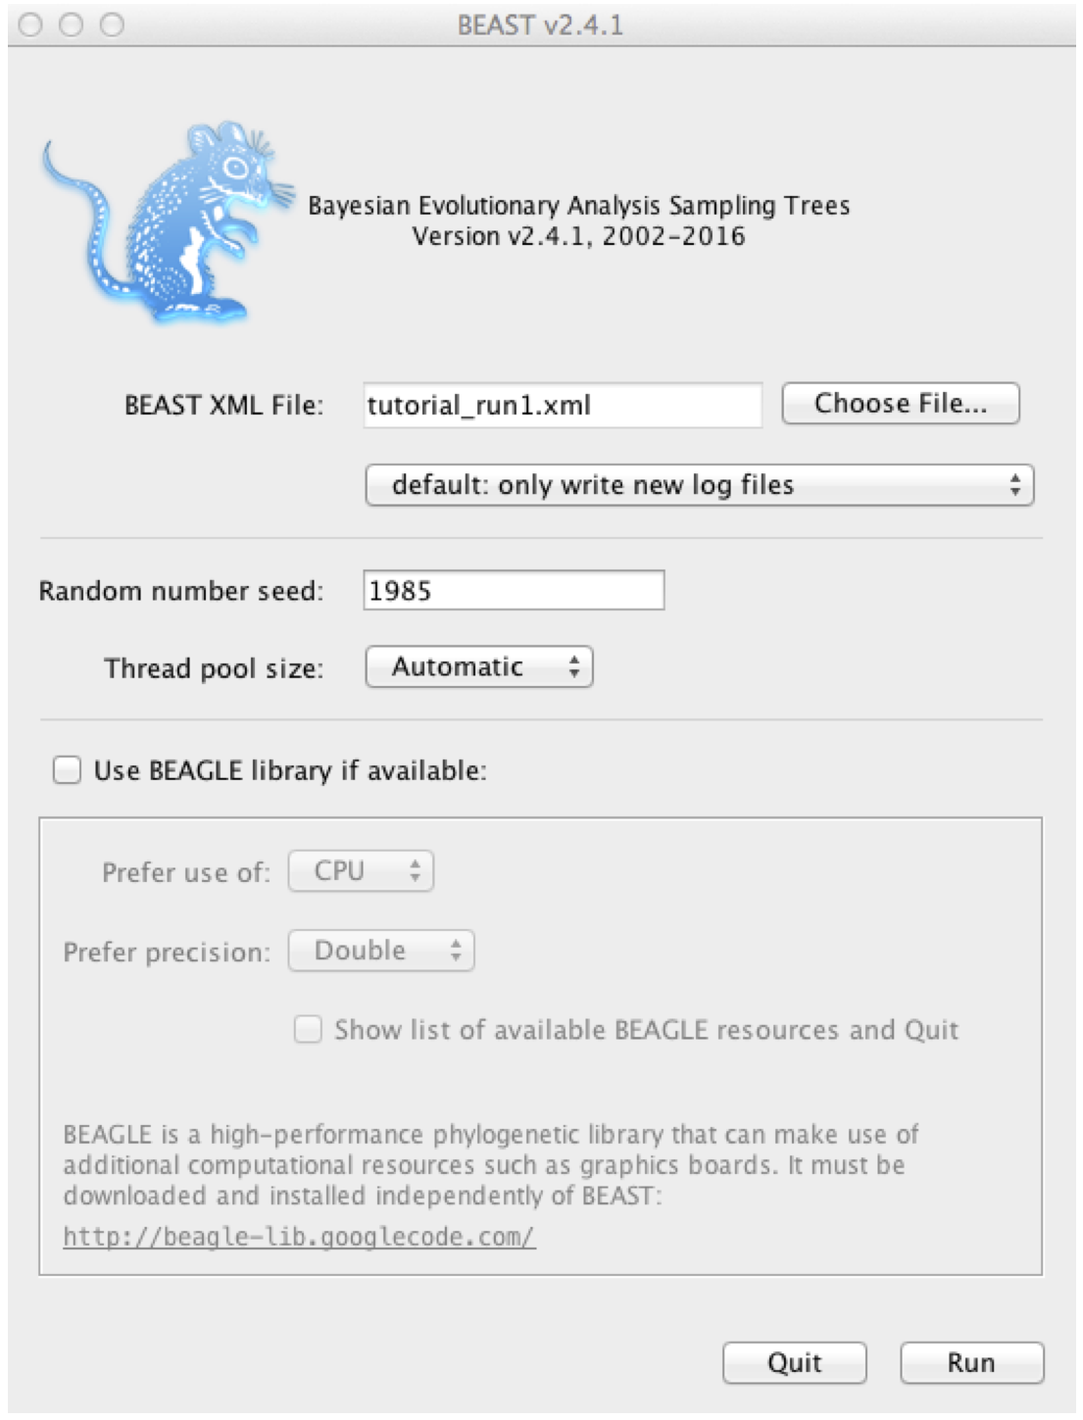
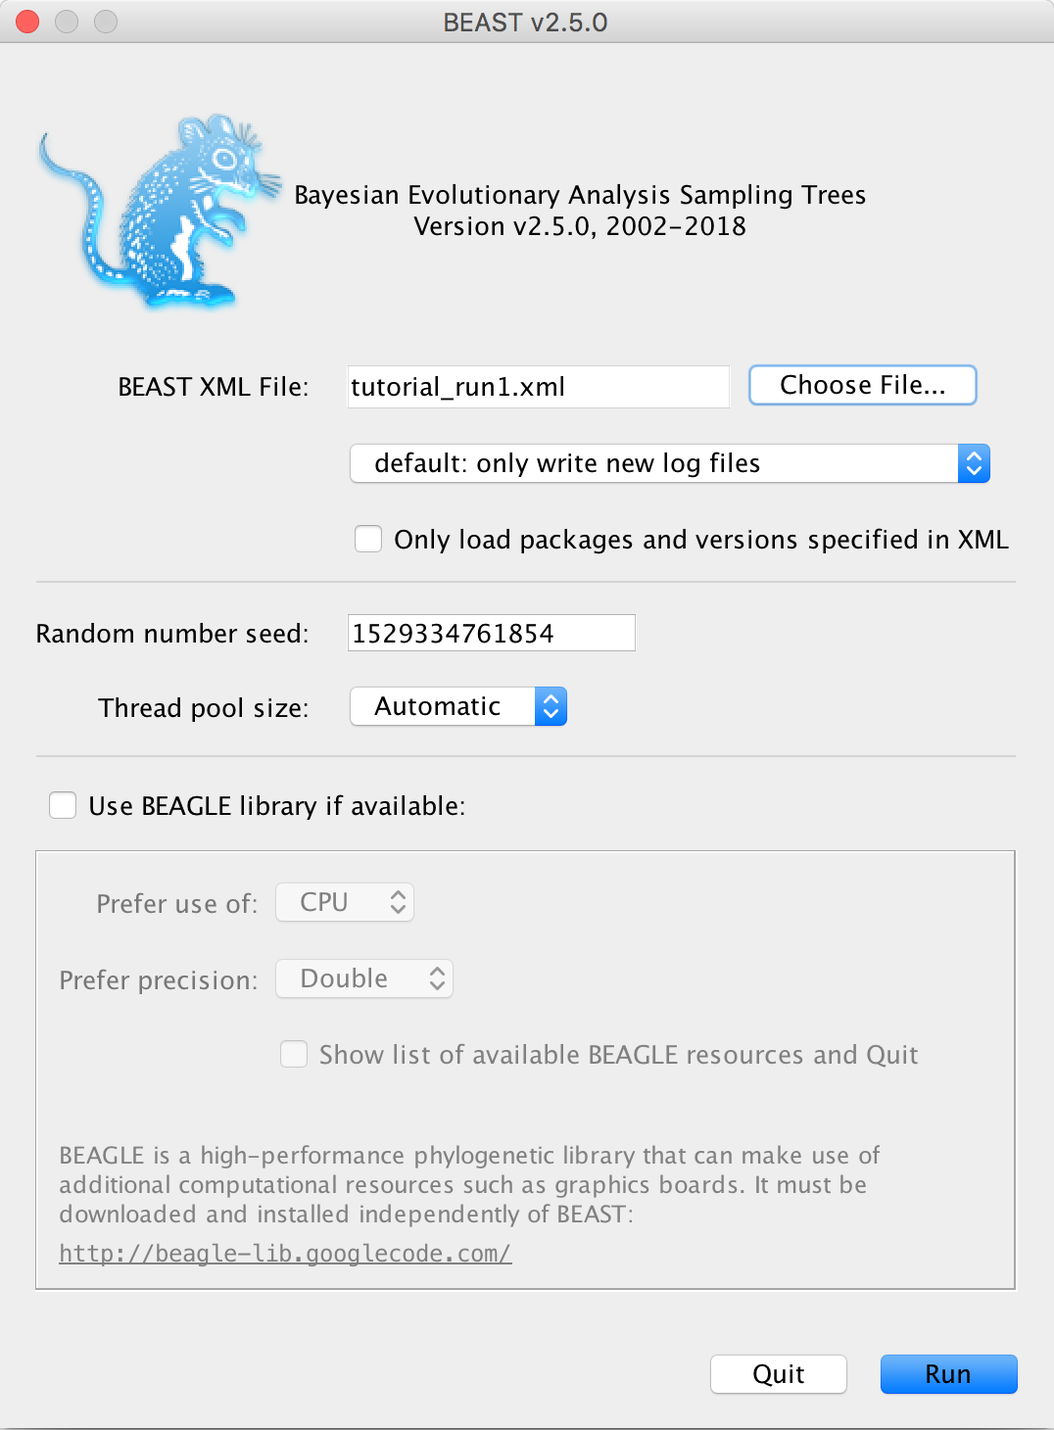
Minor fixes for the tutorial

diff --git a/main.tex b/main.tex
@@ -25,7 +25,7 @@
 \begin{center}
 
 	% Enter the name of your tutorial here
-	\textbf{\LARGE Tutorial using BEAST v2.4.1}\\\vspace{2mm}
+	\textbf{\LARGE Tutorial using BEAST v2.4.1+}\\\vspace{2mm}
 
 	% Enter a short description of your tutorial here
 	\textbf{\textcolor{mycol}{\Large Troubleshooting}}\\
@@ -52,7 +52,7 @@ Tracer. This program allows us to easily visualize BEAST's output and
 summarize results. As we will see, we can also use Tracer to
 troubleshoot some of the most common MCMC problems encountered in BEAST.
 
-While BEAST's MCMC algorithm is fairly well optimized for phylogenetic
+While BEAST's MCMC algorithm is fairly well optimised for phylogenetic
 inference, problems can arise, especially as the complexity of our data
 and models increase. A MCMC run may not converge on a stationary target
 distribution. More commonly, a run might converge but mix poorly -
@@ -153,15 +153,13 @@ file. Then click \textbf{Run}.
 \begin{figure}
     \centering
     \includegraphics[width=0.500000\textwidth]{figures/beast_input_run1.png}
-    \caption{Running BEAST with a user-specified random number seed.}
+    \caption{Running BEAST with the specified XML configuration file.}
     \label{fig:beast_run1}
 \end{figure}
 
-If you set the random number seed to 1985, you should be able to
-reproduce my results exactly (Figure \ref{fig:beast_run1}). Feel free to
-use another seed if you would like to experiment. Since we are only
-running 200,000 iterations, the MCMC should finish running in under 30
-seconds.
+Since we are only running 200,000 iterations, the MCMC should finish running
+in under 30 seconds.
+
 
 \subsubsection{Visualizing BEAST's output in
 Tracer}\label{visualizing-beasts-output-in-tracer}
@@ -170,6 +168,9 @@ Tracer}\label{visualizing-beasts-output-in-tracer}
 Open Tracer and navigate to \textbf{File \textgreater{} Import Trace
 File}, then open \lstinline!tutorial_run1.log!
 \end{framed}
+
+The results of your run will look similar, but not necessarily identical,
+to my results shown in Figure \ref{fig:beast_run1}.
 
 Tracer allows us to quickly visualize BEAST's MCMC output in order to
 check performance and see our parameter estimates. On the left there is
@@ -182,7 +183,7 @@ posterior distribution.
 
 By selecting a parameter in the left panel and then clicking on the
 \textbf{Trace} tab, we can see how the MCMC explored parameter space
-(Figure \ref{fig:tracer_run1}). For the clockRate parameter for
+(Figure \ref{fig:tracer_run1}). For the \textbf{clockRate} parameter for
 instance, we see that the chain quickly converged to a value of about
 0.01 (the true value used to simulate the sequence data), but mixing was
 poor, hence the low ESS.
@@ -190,7 +191,7 @@ poor, hence the low ESS.
 \begin{figure}
     \centering
     \includegraphics[width=0.800000\textwidth]{figures/tracer_run1.png}
-    \caption{A trace plot for the clockRate parameter}
+    \caption{A trace plot for the \textbf{clockRate} parameter}
     \label{fig:tracer_run1}
 \end{figure}
 
@@ -198,7 +199,7 @@ We can also see our posterior estimates for each parameter by clicking
 on the \textbf{Estimates} tab while highlighting the desired parameter
 in the left panel. This provides us with various summary statistics and
 a frequency histogram representing our estimate of the posterior
-distribution constructed from our MCMC samples. For the clockRate
+distribution constructed from our MCMC samples. For the \textbf{clockRate}
 parameter, we can see that our estimate of the posterior is extremely
 rough, again because we have so few uncorrelated samples from the
 posterior (Figure \ref{fig:tracer_run1_ests}).
@@ -206,7 +207,7 @@ posterior (Figure \ref{fig:tracer_run1_ests}).
 \begin{figure}
     \centering
     \includegraphics[width=0.800000\textwidth]{figures/tracer_run1_ests.png}
-    \caption{Posterior estimates of the clockRate in Tracer.}
+    \caption{Posterior estimates of the \textbf{clockRate} in Tracer.}
     \label{fig:tracer_run1_ests}
 \end{figure}
 
@@ -220,8 +221,9 @@ the simplest thing to try is to rerun the MCMC for more iterations.
 \begin{framed}
 Load the \lstinline!tutorial_run1.xml! back into BEAUti using
 \textbf{File \textgreater{} Load}. Navigate to the MCMC panel and
-increase the chain length to 1 million . You may also want to change the
-file name for the log file to \lstinline!tutorial_run2.log! so we do not
+increase the chain length to 1 million. You may also want to change the
+file name for the log file to \lstinline!tutorial_run2.log! and to 
+\lstinline!tutorial_run2.trees! for the tree file so we do not
 overwrite our previous results. When done, navigate \textbf{File
 \textgreater{} Save As} and save as \lstinline!tutorial_run2.xml!.
 \end{framed}
@@ -241,17 +243,17 @@ When done, open the \lstinline!tutorial_run2.log! in Tracer.
 Looking at the MCMC output in Tracer, we see that that increasing the
 chain length did help some (Figure \ref{fig:tracer_run2}). The ESS
 values are higher and the traces look better, but still not great. In
-the next section, we will continue to focus on the clockRate parameter
+the next section, we will continue to focus on the \textbf{clockRate} parameter
 because it still has a low ESS and appears to mix especially poorly.
 
 \begin{figure}
     \centering
     \includegraphics[width=0.800000\textwidth]{figures/tracer_run2.png}
-    \caption{A trace plot for the clockRate parameter}
+    \caption{A trace plot for the \textbf{clockRate} parameter}
     \label{fig:tracer_run2}
 \end{figure}
 
-\subsubsection{Run 3: Changing the clockRate
+\subsubsection{Run 3: Changing the \textbf{clockRate}
 operators}\label{run-3-changing-the-clockrate-operators}
 
 If one parameter in particular is not converging or mixing well, we can
@@ -267,10 +269,11 @@ Load the \lstinline!tutorial_run2.xml! back into BEAUti and select
 \lstinline!View > Show Operators! panel. This will bring up a new panel
 showing all the operators in use (Figure \ref{fig:beauti_run3}). Click
 on the black triangle next to \lstinline!Scale:clockRate!. In the menu
-that drops down, check \textbf{Optimize}. In the box to the right of
+that drops down, check \textbf{Optimise}. In the box to the right of
 \lstinline!Scale.clockRate!, change the value from \textbf{0.1} to
 \textbf{3.0}. Now navigate to the MCMC panel and change the file name
-for the log file to \lstinline!tutorial_run3.log!. When done, save as
+for the log file to \lstinline!tutorial_run3.log! and the tree file to
+\lstinline!tutorial_run3.trees!. When done, save as
 \lstinline!tutorial_run3.xml!.
 \end{framed}
 
@@ -281,9 +284,9 @@ for the log file to \lstinline!tutorial_run3.log!. When done, save as
     \label{fig:beauti_run3}
 \end{figure}
 
-So, what just happened? We told BEAST to try to automatically optimize
-the scale operator on the clockRate, which moves the parameter value up
-or down. Note that by default, operators are automatically optimized in
+So, what just happened? We told BEAST to try to automatically optimise
+the scale operator on the \mbox{\textbf{clockRate}}, which moves the parameter value up
+or down. Note that by default, operators are automatically optimised in
 BEAST, but for the purposes of this tutorial I turned off
 auto-optimization to get especially bad mixing. We also increased the
 weight on this scale operator so that new \textbf{clockRates} will be
@@ -302,13 +305,13 @@ Run the \lstinline!tutorial_run3.xml! in BEAST and then open the
 \end{framed}
 
 We can see that optimizing the operator dramatically improves mixing for
-the clockRate (Figure \ref{fig:tracer_run3}). But there is still room
+the \textbf{clockRate} (Figure \ref{fig:tracer_run3}). But there is still room
 for improvement.
 
 \begin{figure}
     \centering
     \includegraphics[width=0.800000\textwidth]{figures/tracer_run3.png}
-    \caption{A trace plot for the clockRate parameter}
+    \caption{A trace plot for the \textbf{clockRate} parameter}
     \label{fig:tracer_run3}
 \end{figure}
 
@@ -329,7 +332,7 @@ more efficiently explore their parameter space.
 \begin{figure}
     \centering
     \includegraphics[width=0.800000\textwidth]{figures/tracer_run3Joint.png}
-    \caption{The joint posterior distribution of TreeHeight and clockRate}
+    \caption{The joint posterior distribution of \textbf{TreeHeight} and \textbf{clockRate}}
     \label{fig:tracer_run3Joint}
 \end{figure}
 
@@ -346,10 +349,11 @@ operator to scale both parameters in the same direction, up or down.
 Load the \lstinline!tutorial_run3.xml! back into BEAUti and select
 \lstinline!View > Show Operators! panel. Click on the black triangle
 next to \textbf{UpDown clockRate}. In the menu that drops down, check
-\textbf{Optimize}. In the box to the right, change the weight on the
+\textbf{Optimise}. In the box to the right, change the weight on the
 UpDown operator from \textbf{0.0} to \textbf{3.0}. In the MCMC panel,
-change the file name for the log file to \lstinline!tutorial_run4.log!.
-When done, save as tutorial\_run4.xml`.
+change the file name for the log file to \lstinline!tutorial_run4.log!
+and the tree file to \lstinline!tutorial_run4.trees!.
+When done, save as \lstinline!tutorial_run4.xml!.
 \end{framed}
 
 We just added an \textbf{UpDown} operator on the \textbf{clockRate} and
@@ -383,7 +387,7 @@ converging on similar parameters.
 \begin{figure}
     \centering
     \includegraphics[width=0.800000\textwidth]{figures/tracer_run4.png}
-    \caption{A trace plot for the clockRate parameter}
+    \caption{A trace plot for the \textbf{clockRate} parameter}
     \label{fig:tracer_run4}
 \end{figure}
 

diff --git a/README.md b/README.md
@@ -1,6 +1,6 @@
 ---
 author: David A. Rasmussen
-beastversion: 2.4.1
+beastversion: 2.4.1+
 tracerversion: 1.6.0
 level: Beginner
 title: Troubleshooting
@@ -11,7 +11,7 @@ title: Troubleshooting
 
 The primary goal of most phylogenetic analyses in BEAST is to infer the posterior distribution of trees and associated model parameters using Markov chain Monte Carlo (MCMC) sampling. In this tutorial, we will learn how to analyze the output of a MCMC analysis in BEAST using Tracer. This program allows us to easily visualize BEAST's output and summarize results. As we will see, we can also use Tracer to troubleshoot some of the most common MCMC problems  encountered in BEAST.
 
-While BEAST's MCMC algorithm is fairly well optimized for phylogenetic inference, problems can arise, especially as the complexity of our data and models increase. A MCMC run may not converge on a stationary target distribution. More commonly, a run might converge but mix poorly - meaning our samples from the posterior are highly autocorrelated and therefore not independent. In these cases, it is often necessary to tune the performance of the MCMC algorithm.
+While BEAST's MCMC algorithm is fairly well optimised for phylogenetic inference, problems can arise, especially as the complexity of our data and models increase. A MCMC run may not converge on a stationary target distribution. More commonly, a run might converge but mix poorly - meaning our samples from the posterior are highly autocorrelated and therefore not independent. In these cases, it is often necessary to tune the performance of the MCMC algorithm.
 
 In this tutorial, we will consider a relatively simple example where we would like to infer a phylogeny and evolutionary parameters from a small alignment of sequences.  Our job will be to work together to increase the efficiency of the MCMC so we can make BEAST purr...
 
@@ -84,12 +84,11 @@ We are now ready to run our first analysis in BEAST.
 <figure>
 	<a id="fig:beast_run1"></a>
 	<img style="width:50.0%;" src="figures/beast_input_run1.png" alt="">
-	<figcaption>Figure 2: Running BEAST with a user-specified random number seed.</figcaption>
+	<figcaption>Figure 2: Running BEAST with the specified XML configuration file.</figcaption>
 </figure>
 <br>
 
-
-If you set the random number seed to 1985, you should be able to reproduce my results exactly ([Figure 2](#fig:beast_run1)). Feel free to use another seed if you would like to experiment. Since we are only running 200,000 iterations, the MCMC should finish running in under 30 seconds.
+Since we are only running 200,000 iterations, the MCMC should finish running in under 30 seconds.
 
 
 ### Visualizing BEAST's output in Tracer
@@ -98,24 +97,26 @@ If you set the random number seed to 1985, you should be able to reproduce my re
 > Open Tracer and navigate to **File > Import Trace File**, then open `tutorial_run1.log`
 > 
 
+The results of your run will look similar, but not necessarily identical, to my results shown in [Figure 2](#fig:beast_run1).
+
 Tracer allows us to quickly visualize BEAST's MCMC output in order to check performance and see our parameter estimates. On the left there is a panel where all model parameters are listed along with their mean posterior estimates and Effective Sample Size (ESS). Recall that the ESS tells us how many pseudo-independent samples we have from the posterior, so the higher the better. Here, we can see that the ESS is low for all parameters, indicating that we do not yet have a good estimate of the posterior distribution.
 
-By selecting a parameter in the left panel and then clicking on the **Trace** tab, we can see how the MCMC explored parameter space ([Figure 3](#fig:tracer_run1)). For the clockRate parameter for instance, we see that the chain quickly converged to a value of about 0.01 (the true value used to simulate the sequence data), but mixing was poor, hence the low ESS. 
+By selecting a parameter in the left panel and then clicking on the **Trace** tab, we can see how the MCMC explored parameter space ([Figure 3](#fig:tracer_run1)). For the **clockRate** parameter for instance, we see that the chain quickly converged to a value of about 0.01 (the true value used to simulate the sequence data), but mixing was poor, hence the low ESS. 
 
 <figure>
 	<a id="fig:tracer_run1"></a>
 	<img style="width:80.0%;" src="figures/tracer_run1.png" alt="">
-	<figcaption>Figure 3: A trace plot for the clockRate parameter</figcaption>
+	<figcaption>Figure 3: A trace plot for the **clockRate** parameter</figcaption>
 </figure>
 <br>
 
 
-We can also see our posterior estimates for each parameter by clicking on the **Estimates** tab while highlighting the desired parameter in the left panel. This provides us with various summary statistics and a frequency histogram representing our estimate of the posterior distribution constructed from our MCMC samples. For the clockRate parameter, we can see that our estimate of the posterior is extremely rough, again because we have so few uncorrelated samples from the posterior ([Figure 4](#fig:tracer_run1_ests)).
+We can also see our posterior estimates for each parameter by clicking on the **Estimates** tab while highlighting the desired parameter in the left panel. This provides us with various summary statistics and a frequency histogram representing our estimate of the posterior distribution constructed from our MCMC samples. For the **clockRate** parameter, we can see that our estimate of the posterior is extremely rough, again because we have so few uncorrelated samples from the posterior ([Figure 4](#fig:tracer_run1_ests)).
 
 <figure>
 	<a id="fig:tracer_run1_ests"></a>
 	<img style="width:80.0%;" src="figures/tracer_run1_ests.png" alt="">
-	<figcaption>Figure 4: Posterior estimates of the clockRate in Tracer.</figcaption>
+	<figcaption>Figure 4: Posterior estimates of the **clockRate** in Tracer.</figcaption>
 </figure>
 <br>
 
@@ -126,7 +127,7 @@ We can also see our posterior estimates for each parameter by clicking on the **
 By checking the ESS, trace plots and parameter estimates, we got the picture that none of our parameters in Run 1 mixed well. In this case, the simplest thing to try is to rerun the MCMC for more iterations.
 
 
-> Load the `tutorial_run1.xml` back into BEAUti using **File > Load**. Navigate to the MCMC panel and increase the chain length to 1 million . You may also want to change the file name for the log file to `tutorial_run2.log` so we do not overwrite our previous results. When done, navigate **File > Save As** and save as `tutorial_run2.xml`.
+> Load the `tutorial_run1.xml` back into BEAUti using **File > Load**. Navigate to the MCMC panel and increase the chain length to 1 million. You may also want to change the file name for the log file to `tutorial_run2.log` and to `tutorial_run2.trees` for the tree file so we do not overwrite our previous results. When done, navigate **File > Save As** and save as `tutorial_run2.xml`.
 > 
 
 
@@ -141,23 +142,23 @@ By checking the ESS, trace plots and parameter estimates, we got the picture tha
 <br>
 
 
-Looking at the MCMC output in Tracer, we see that that increasing the chain length did help some ([Figure 6](#fig:tracer_run2)). The ESS values are higher and the traces look better, but still not great. In the next section, we will continue to focus on the clockRate parameter because it still has a low ESS and appears to mix especially poorly. 
+Looking at the MCMC output in Tracer, we see that that increasing the chain length did help some ([Figure 6](#fig:tracer_run2)). The ESS values are higher and the traces look better, but still not great. In the next section, we will continue to focus on the **clockRate** parameter because it still has a low ESS and appears to mix especially poorly. 
 
 <figure>
 	<a id="fig:tracer_run2"></a>
 	<img style="width:80.0%;" src="figures/tracer_run2.png" alt="">
-	<figcaption>Figure 6: A trace plot for the clockRate parameter</figcaption>
+	<figcaption>Figure 6: A trace plot for the **clockRate** parameter</figcaption>
 </figure>
 <br>
 
 
 
-### Run 3: Changing the clockRate operators
+### Run 3: Changing the **clockRate** operators
 
 If one parameter in particular is not converging or mixing well, we can try to tweak that parameter's operator(s). Remember that BEAST's operators control what new parameter values are proposed at each MCMC iteration and how these proposals are made (i.e. the proposal distribution). Since the **clockRate** parameter was not mixing well in Run 2, we will try increasing the frequency at which new **clockRates** are proposed.
 
 
-> Load the `tutorial_run2.xml` back into BEAUti and select `View > Show Operators` panel. This will bring up a new panel showing all the operators in use ([Figure 7](#fig:beauti_run3)). Click on the black triangle next to `Scale:clockRate`. In the menu that drops down, check **Optimize**. In the box to the right of `Scale.clockRate`, change the value from **0.1** to **3.0**. Now navigate to the MCMC panel and change the file name for the log file to `tutorial_run3.log`. When done, save as `tutorial_run3.xml`.
+> Load the `tutorial_run2.xml` back into BEAUti and select `View > Show Operators` panel. This will bring up a new panel showing all the operators in use ([Figure 7](#fig:beauti_run3)). Click on the black triangle next to `Scale:clockRate`. In the menu that drops down, check **Optimise**. In the box to the right of `Scale.clockRate`, change the value from **0.1** to **3.0**. Now navigate to the MCMC panel and change the file name for the log file to `tutorial_run3.log` and the tree file to `tutorial_run3.trees`. When done, save as `tutorial_run3.xml`.
 > 
 
 <figure>
@@ -168,19 +169,19 @@ If one parameter in particular is not converging or mixing well, we can try to t
 <br>
  
 
-So, what just happened? We told BEAST to try to automatically optimize the scale operator on the clockRate, which moves the parameter value up or down. Note that by default, operators are automatically optimized in BEAST, but for the purposes of this tutorial I turned off auto-optimization to get especially bad mixing. We also increased the weight on this scale operator so that new **clockRates** will be proposed more often in the MCMC. Going from a weight of 0.1 to 3.0 means that new proposals for that parameter will be made thirty times as often, but the frequency at which a given operator is called depends on the weights given to other operators. So if there are parameters with very high ESS values, we may want to reallocate weight on their operators to operators on less well mixing parameters. For fun, you may want to guess what each operator in the **Operators** panel is doing.
+So, what just happened? We told BEAST to try to automatically optimise the scale operator on the **clockRate**, which moves the parameter value up or down. Note that by default, operators are automatically optimised in BEAST, but for the purposes of this tutorial I turned off auto-optimization to get especially bad mixing. We also increased the weight on this scale operator so that new **clockRates** will be proposed more often in the MCMC. Going from a weight of 0.1 to 3.0 means that new proposals for that parameter will be made thirty times as often, but the frequency at which a given operator is called depends on the weights given to other operators. So if there are parameters with very high ESS values, we may want to reallocate weight on their operators to operators on less well mixing parameters. For fun, you may want to guess what each operator in the **Operators** panel is doing.
 
 
 
 > Run the `tutorial_run3.xml` in BEAST and then open the `tutorial_run3.log` in Tracer.
 > 
 
-We can see that optimizing the operator dramatically improves mixing for the clockRate ([Figure 8](#fig:tracer_run3)). But there is still room for improvement.
+We can see that optimizing the operator dramatically improves mixing for the **clockRate** ([Figure 8](#fig:tracer_run3)). But there is still room for improvement.
 
 <figure>
 	<a id="fig:tracer_run3"></a>
 	<img style="width:80.0%;" src="figures/tracer_run3.png" alt="">
-	<figcaption>Figure 8: A trace plot for the clockRate parameter</figcaption>
+	<figcaption>Figure 8: A trace plot for the **clockRate** parameter</figcaption>
 </figure>
 <br>
  
@@ -190,7 +191,7 @@ One thing to keep in mind is that BEAST is using MCMC to explore a multidimensio
 <figure>
 	<a id="fig:tracer_run3Joint"></a>
 	<img style="width:80.0%;" src="figures/tracer_run3Joint.png" alt="">
-	<figcaption>Figure 9: The joint posterior distribution of TreeHeight and clockRate</figcaption>
+	<figcaption>Figure 9: The joint posterior distribution of **TreeHeight** and **clockRate**</figcaption>
 </figure>
 <br>
 
@@ -201,7 +202,7 @@ One thing to keep in mind is that BEAST is using MCMC to explore a multidimensio
 The easiest way to improve MCMC performance when two parameters are highly negatively correlated is to add an **UpDown** operator. This operator scales one parameter up while scaling the other parameter down. If two parameters are highly positively correlated we can also use this operator to scale both parameters in the same direction, up or down. 
 
 
-> Load the `tutorial_run3.xml` back into BEAUti and select `View > Show Operators` panel. Click on the black triangle next to **UpDown clockRate**. In the menu that drops down, check **Optimize**. In the box to the right, change the weight on the UpDown operator from **0.0** to **3.0**. In the MCMC panel, change the file name for the log file to `tutorial_run4.log`. When done, save as tutorial_run4.xml`.
+> Load the `tutorial_run3.xml` back into BEAUti and select `View > Show Operators` panel. Click on the black triangle next to **UpDown clockRate**. In the menu that drops down, check **Optimise**. In the box to the right, change the weight on the UpDown operator from **0.0** to **3.0**. In the MCMC panel, change the file name for the log file to `tutorial_run4.log` and the tree file to `tutorial_run4.trees`. When done, save as tutorial_run4.xml`.
 > 
 
 We just added an **UpDown** operator on the **clockRate** and the **TreeHeight**. The fact that these two parameters are highly negatively correlated makes perfect sense. An increase in the **clockRate** means that less time is needed for substitutions to accumulate along branches; meaning branches can be shorter and yet still explain the same amount of accumulated evolutionary change in the sequence data. If all branches in the tree become shorter, then the total **TreeHeight** will also decrease. Thus it makes sense to include an **UpDown** operator on **clockRate** and **TreeHeight**. In fact, by default BEAUTi includes this operator. However, I disabled it in the original XML file by setting the weight on this operator to zero for the purpose of illustration.
@@ -215,7 +216,7 @@ Looking at the MCMC output in Tracer, we see that all parameters are starting to
 <figure>
 	<a id="fig:tracer_run4"></a>
 	<img style="width:80.0%;" src="figures/tracer_run4.png" alt="">
-	<figcaption>Figure 10: A trace plot for the clockRate parameter</figcaption>
+	<figcaption>Figure 10: A trace plot for the **clockRate** parameter</figcaption>
 </figure>
 <br>
 
